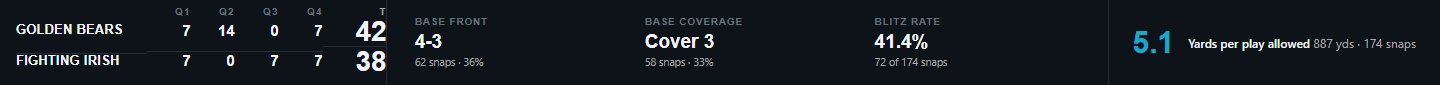
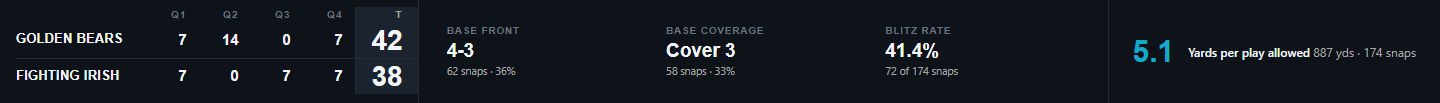
fix: the row divider was a staircase, and the total block never applied
Coach: "the line clearly is not straight." It was not, and measuring the row
showed why in one line -- the six cells sat at three different tops (name 190,
quarters 188, total 183). `align-items:center` centres every cell at its OWN
content height, and the fonts differ (12.5px name, 15px quarters, 28px total),
so a border drawn on each cell lands at three heights. Cells now stretch to the
full row and centre their own text; all six report top 195 and the divider is
one straight line.

The same measurement caught a second defect I had not seen at all: the total
block's border-left computed to 0px and its background to transparent. Every
rule targeting a cell through `.sb-score > .sb-tot` had silently done nothing,
because `.sb-line` is `display:contents` -- that removes the row's BOX but not
its place in the DOM tree, so the child combinator still had to cross it. The
selectors are descendant now. This also means the cell padding and text
alignment rules had never applied either.

Third, from reading the 3x zoom: the quarter figures sat flush against their
own cell edge, which is exactly where the total block begins, so Q4 read as
crowded into the score. Quarter columns gained right padding and 8px width.

Lesson recorded in the message rather than the file: I presented this bug twice
without looking at it closely enough to see a stepped line. Zooming a 1440-wide
strip to 3x took one command.

diff --git a/design-comps/reports-defense-2026-09-03/defense.html b/design-comps/reports-defense-2026-09-03/defense.html
@@ -81,7 +81,7 @@ button{font-family:inherit}
    bounded on its own and truncates with the full value in a tooltip.
    ─────────────────────────────────────────────────────────────────────── */
 .scorebug{
-  --sb-name:520px; --sb-q:44px; --sb-tot:64px;
+  --sb-name:520px; --sb-q:52px; --sb-tot:64px;
   display:flex;flex-wrap:wrap;align-items:stretch;
   background:var(--gi-bd-panel)
 }
@@ -96,20 +96,22 @@ button{font-family:inherit}
 .sb-ident small{display:block;margin-top:3px;color:var(--gi-bd-copy);font:400 10.5px/1.2 var(--gi-sans);white-space:nowrap}
 .sb-meta{flex:0 0 auto}
 .sb-score{
-  display:grid;align-items:center;
+  display:grid;align-items:stretch;
   grid-template-columns:max-content repeat(4,var(--sb-q)) var(--sb-tot);
   padding:7px var(--gi-4x) 9px
 }
 .sb-line{display:contents}
-.sb-score>*{padding:2px 0;text-align:right}
-.sb-hd{color:var(--gi-bd-muted);font:700 9.5px/1 var(--gi-cond);letter-spacing:.16em;text-transform:uppercase}
+.sb-score .sb-name,.sb-score .sb-q,.sb-score .sb-tot,.sb-score .sb-hd{
+  display:flex;align-items:center;justify-content:flex-end;padding:3px 0
+}
+.sb-hd{padding-right:var(--gi-3x)!important;color:var(--gi-bd-muted);font:700 9.5px/1 var(--gi-cond);letter-spacing:.16em;text-transform:uppercase}
 .sb-hd.tot{color:var(--gi-bd-copy)}
 .sb-name{
-  min-width:0;padding-right:var(--gi-3x)!important;text-align:left!important;
+  min-width:0;justify-content:flex-start!important;padding-right:var(--gi-6x)!important;
   color:var(--gi-bd-strong);font:700 12.5px/1.25 var(--gi-cond);letter-spacing:.04em;text-transform:uppercase;
   white-space:nowrap
 }
-.sb-q{color:var(--gi-bd-strong);font:600 15px/1.25 var(--gi-cond);font-variant-numeric:var(--gi-num-feat)}
+.sb-q{padding-right:var(--gi-3x)!important;color:var(--gi-bd-strong);font:600 15px/1.25 var(--gi-cond);font-variant-numeric:var(--gi-num-feat)}
 .sb-tot{color:var(--gi-bd-strong);font:700 28px/1.05 var(--gi-cond);font-variant-numeric:var(--gi-num-feat)}
 /* Both rows read the same. Dimming the losing team costs legibility to
    restate what the numbers already say. */
@@ -117,12 +119,12 @@ button{font-family:inherit}
    hairline, and the final sits in its own raised block so the eye lands on it
    without reading the quarters first. The quarter columns stay unadorned --
    they are supporting detail, not the headline. */
-.sb-score>.sb-tot,.sb-score>.sb-hd.tot{
+.sb-score .sb-tot,.sb-score .sb-hd.tot{
   background:var(--gi-bd-control-active);
   border-left:1px solid var(--gi-bd-line);
   padding-right:var(--gi-4x)!important;padding-left:var(--gi-4x)!important
 }
-.sb-score>.sb-hd.tot{color:var(--gi-bd-copy)}
+.sb-score .sb-hd.tot{color:var(--gi-bd-copy)}
 #sbRowThem>*{border-top:1px solid var(--gi-bd-line)}
 .sb-score{padding-right:0}
 .sb-name{padding-right:var(--gi-6x)!important}
